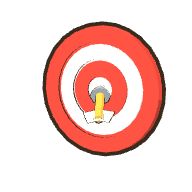
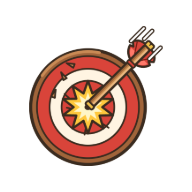
Ferme : icones d'ulti du Cra redessinees (Fleche glacee, Fleches enflammees, Fleche fatale)

diff --git a/site/ferme/index.html b/site/ferme/index.html
@@ -4960,7 +4960,7 @@ const nomUlti = (id) => ULTIS[id].nom[classeDe()];
 /* « faut revoir l'esthetisme des sorts sur Osa et Iop, ca affiche les memes icones que Cra » (Mathieu, 11/10/2026) : chaque classe a ses icones
    (generer-ultis.html) ; celles du Cra gardent leur nom d'origine */
 const sufUlti = () => classeDe() === 'cra' ? '' : '-' + classeDe();
-const srcUlti = (id) => 'assets/icones/ulti-' + id + sufUlti() + '.png?v=' + VERSION_MODELES;
+const srcUlti = (id) => 'assets/icones/ulti-' + id + sufUlti() + '.png?v=' + VERSION_MODELES + 'u2'; /* (u2 : les icones du Cra redessinees le 14/10/2026, sans recharger tous les modeles) */
 function ouvrirUlti() {
   const l = niveau(S_.xp), d = statsPerso().deg, cl = CLASSES.find((c) => c.id === classeDe());
   const carte = (id) => { const U = ULTIS[id], pris = S_.ulti === id;
